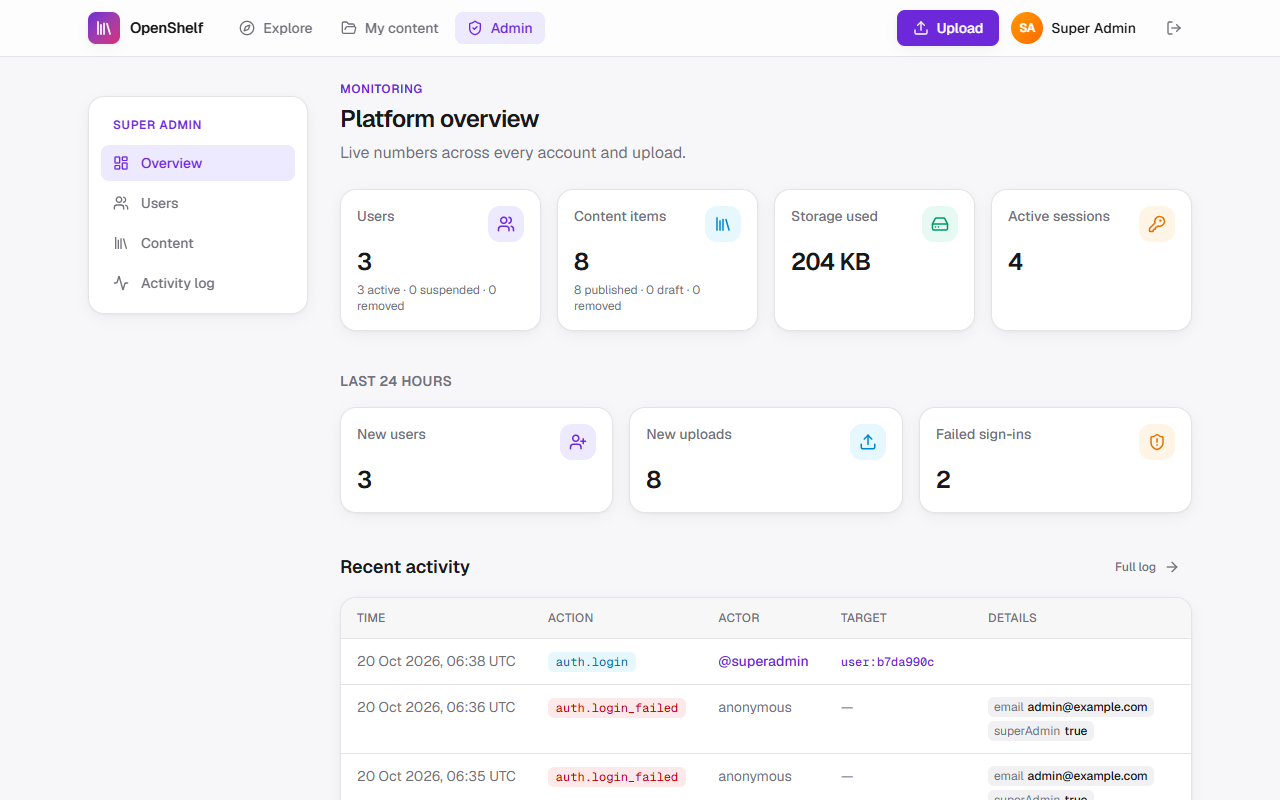
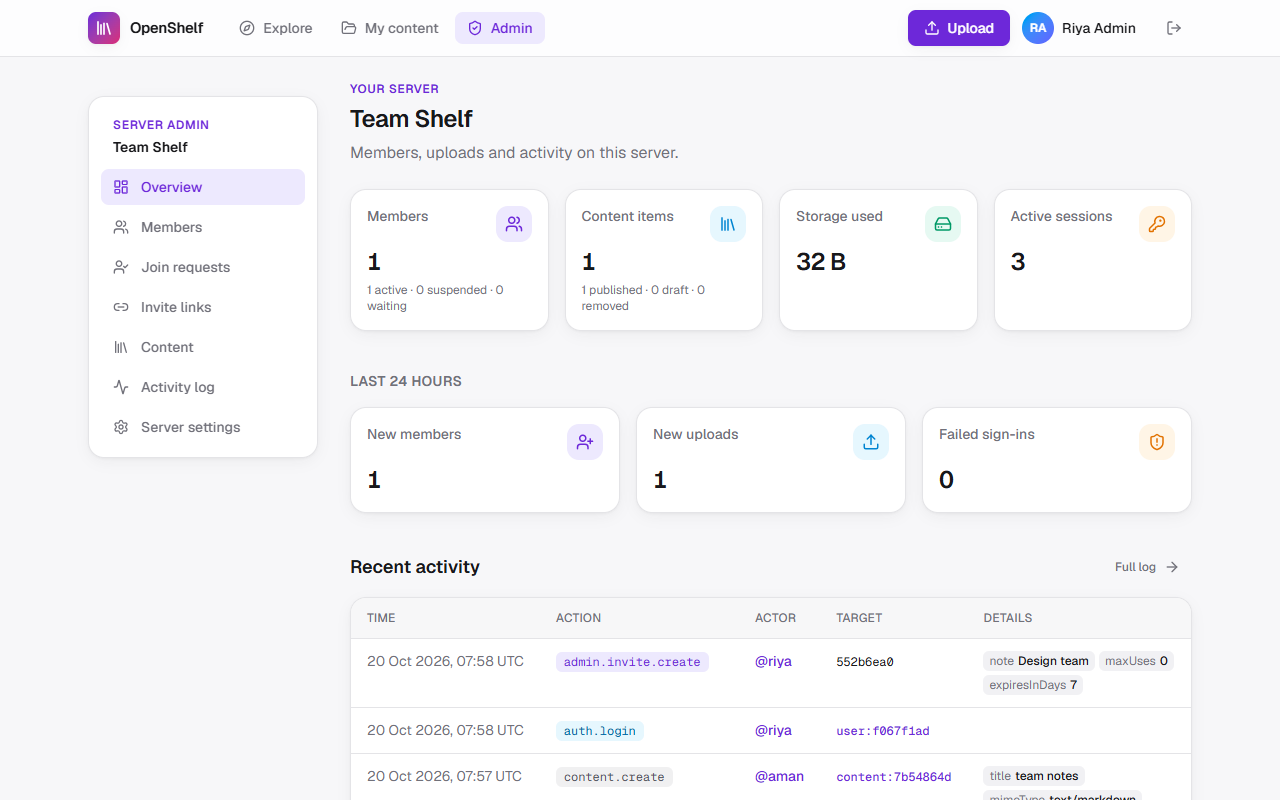
OpenShelf 0.2.0: team servers over Wi-Fi
- Wi-Fi address list prefers the Wi-Fi adapter
- README: team setup walkthrough with new screenshots; roles; reset-password FAQ
- docs: servers, invites, Wi-Fi sharing, 3-role RBAC table; SECURITY: LAN is plain http
- Release notes with the update-popup marker (big feature)

diff --git a/src/server/services/server.ts b/src/server/services/server.ts
@@ -88,16 +88,21 @@ export async function updateServerSettings(admin: CurrentUser, input: Record<str
 
 /** http://<lan-ip>:<port> addresses this PC can be reached at on the local network. */
 export function lanAddresses(port: string | number): string[] {
-  const out: string[] = [];
-  for (const list of Object.values(os.networkInterfaces())) {
+  // Virtual adapters (VMs, WSL, Docker) aren't reachable by other devices on the Wi-Fi.
+  const VIRTUAL = /virtualbox|vmware|vethernet|hyper-v|wsl|docker|loopback|bluetooth|tailscale|zerotier/i;
+  const rank = (name: string) => (/wi-?fi|wireless|wlan/i.test(name) ? 0 : /ethernet|^en|^eth/i.test(name) ? 1 : 2);
+  const found: { name: string; url: string }[] = [];
+  for (const [name, list] of Object.entries(os.networkInterfaces())) {
+    if (VIRTUAL.test(name)) continue;
     for (const a of list ?? []) {
       if (a.family !== "IPv4" || a.internal) continue;
       // Skip link-local (169.254.x.x): it means "no network", not a reachable address.
       if (a.address.startsWith("169.254.")) continue;
-      out.push(`http://${a.address}:${port}`);
+      found.push({ name, url: `http://${a.address}:${port}` });
     }
   }
-  return out;
+  // Wi-Fi first, then wired, then anything else.
+  return found.sort((x, y) => rank(x.name) - rank(y.name)).map((f) => f.url);
 }
 
 // ---------------------------------------------------------------- invites

diff --git a/README.md b/README.md
@@ -5,8 +5,8 @@
 <h1 align="center">OpenShelf</h1>
 
 <p align="center">
-  <b>Your own content library on your own PC.</b><br>
-  Upload photos, videos, music, PDFs and notes, and share them publicly, by link, or keep them private.
+  <b>Turn your PC into a content server for your team.</b><br>
+  Photos, videos, music, PDFs and notes, shared fast over your own Wi-Fi, with you in charge.
 </p>
 
 <p align="center">
@@ -20,6 +20,13 @@
   <img src="docs/screenshots/home.png" alt="OpenShelf home page" width="900">
 </p>
 
+## How it works
+
+- **One person installs OpenShelf.** Their PC becomes the server, and they become its **admin**.
+- **Teammates join with an invite link.** On the same Wi-Fi, files move directly between their devices and the
+  server, so it's fast and nothing goes through the internet.
+- **Everyone keeps their own shelf.** Members upload and share. The admin manages members, invites and content.
+
 ---
 
 ## Install in 1 minute (Windows)
@@ -32,20 +39,16 @@
 irm https://raw.githubusercontent.com/sidvashisth2005/OpenShelf/main/install.ps1 | iex
 ```
 
-**Step 3.** Answer three questions:
+Press <kbd>Enter</kbd> when it asks `Continue? [Y/n]`. It installs, tests itself, and **opens in your browser**.
 
-| It asks | You type |
-| --- | --- |
-| `Continue? [Y/n]` | <kbd>Enter</kbd> |
-| `Admin email:` | your email, for example `you@example.com` |
-| `Admin password:` | a password of at least 14 characters, typed twice. It stays hidden while you type, which is normal. |
-
-That's it. OpenShelf installs, tests itself, and **opens in your browser**. Next time, open it from the
-**OpenShelf** icon on your Desktop or in the Start Menu.
+**Step 3.** In the browser, **create your admin account**: pick a server name, your name, email and password.
+That's it, you're the admin.
 
 <p align="center">
-  <img src="docs/screenshots/installer.png" alt="The installer running in PowerShell" width="800">
+  <img src="docs/screenshots/installer.png" alt="The installer running in PowerShell" width="760">
 </p>
+
+Next time, open OpenShelf from the **OpenShelf** icon on your Desktop or in the Start Menu.
 
 > **Why PowerShell and not a download button?** The command downloads the official installer from this
 > repository, checks that it hasn't been changed (SHA-256), and runs it. You skip the browser's "isn't
@@ -58,9 +61,8 @@ That's it. OpenShelf installs, tests itself, and **opens in your browser**. Next
 2. If your browser says *"OpenShelf.exe isn't commonly downloaded"*: open the downloads list, choose **…** →
    **Keep** → **Show more** → **Keep anyway**.
 3. Double-click it. If Windows shows *"Windows protected your PC"*, click **More info** → **Run anyway**.
-4. Answer the same three questions as above.
 
-These warnings appear because the installer isn't code-signed yet. They go away once releases are signed. See
+These warnings appear because the installer isn't code-signed yet. See
 [RELEASING.md](RELEASING.md#code-signing-removes-the-smartscreen-warning).
 </details>
 
@@ -73,27 +75,36 @@ You need [Node.js 20.9 or newer](https://nodejs.org).
 git clone https://github.com/sidvashisth2005/OpenShelf.git
 cd OpenShelf
 ./setup.sh          # Windows: setup.cmd
-npm start           # then open http://localhost:3000
+npm start           # then open http://localhost:3000 and create your admin account
 ```
 
-The setup script installs everything, asks for the admin email and password, runs the tests, and builds the app.
-For details, see the [developer guide](docs/DEVELOPMENT.md).
+See the [developer guide](docs/DEVELOPMENT.md).
 </details>
 
-**What you need:** Windows 10 or 11, an internet connection during install (about 60 MB), and about 300 MB of
-disk space. You don't need admin rights.
+**What you need:** Windows 10 or 11, internet during install (about 60 MB), and about 300 MB of disk space. You don't
+need admin rights.
 
 ---
 
-## What you can do
+## Bring your team in (same Wi-Fi)
 
 | | |
 | --- | --- |
-| <img src="docs/screenshots/upload.png" alt="Upload page" width="420"> | **Upload anything.** Drag and drop images, videos, music, PDFs and notes (up to 50 MB each). Give each upload a title and choose who can see it: **Public**, **Unlisted** (only people with the link) or **Private**. |
-| <img src="docs/screenshots/dashboard.png" alt="My content dashboard" width="420"> | **Manage your shelf.** See everything you've uploaded, what's public, and how much space it uses. Edit details or delete items at any time. |
-| <img src="docs/screenshots/content.png" alt="A content page" width="420"> | **Share a page for every item.** Images, video, audio and text preview right in the page, with Open and Download buttons. |
-| <img src="docs/screenshots/admin-overview.png" alt="Admin dashboard" width="420"> | **Run it as the admin.** A dashboard with users, uploads, storage and sign-in activity, plus tools to moderate content and suspend or remove accounts. Every admin action is logged. |
-| <img src="docs/screenshots/signup.png" alt="Sign-up page with the administrator access notice" width="420"> | **Be clear with your users.** At sign-up, people see exactly what the admin can access and agree to it once. This is explained in the built-in [Terms](src/lib/legal.ts) and Privacy Policy. |
+| <img src="docs/screenshots/setup.png" alt="Set up your server" width="420"> | **1. Set up your server.** The first time OpenShelf opens, you create the admin account. This page only opens on the PC where OpenShelf is installed, so nobody else can claim your server. |
+| <img src="docs/screenshots/server-settings.png" alt="Server settings" width="420"> | **2. Turn on "Share on my Wi-Fi".** In **Admin → Server settings**. OpenShelf restarts itself in the background. If Windows asks whether to allow it on private networks, choose **Allow**. You also choose who can join: **Invite only**, **Ask to join** (you approve each person) or **Open**. |
+| <img src="docs/screenshots/invites.png" alt="Invite links" width="420"> | **3. Create an invite link.** In **Admin → Invite links**: choose how many people can use it and when it expires, then copy the **same Wi-Fi** link and send it to your team. |
+| <img src="docs/screenshots/signup.png" alt="Joining with an invite" width="420"> | **4. Teammates open the link** on any phone or laptop on the same Wi-Fi, create their account, and they're in. At sign-up they see, and agree once to, what the admin can access. |
+| <img src="docs/screenshots/admin-overview.png" alt="Admin dashboard" width="420"> | **5. Manage everything** from the admin dashboard: members, join requests, invite links, content moderation and the activity log. |
+
+---
+
+## What members can do
+
+| | |
+| --- | --- |
+| <img src="docs/screenshots/upload.png" alt="Upload page" width="420"> | **Upload anything.** Drag and drop images, videos, music, PDFs and notes (up to 50 MB each), and choose who can see each one: **Public**, **Unlisted** (link only) or **Private**. |
+| <img src="docs/screenshots/dashboard.png" alt="My content dashboard" width="420"> | **Manage their shelf.** See everything they uploaded, edit details, or delete items at any time. |
+| <img src="docs/screenshots/content.png" alt="A content page" width="420"> | **Share a page for every item,** with previews and Open/Download buttons. |
 
 <p align="center">
   <img src="docs/screenshots/home-dark.png" alt="Dark mode" width="560">
@@ -102,28 +113,24 @@ disk space. You don't need admin rights.
   <br><sub>Dark mode follows your system setting, and it works on phones too.</sub>
 </p>
 
----
+## Roles
 
-## Using OpenShelf
+| Role | Who | Can do |
+| --- | --- | --- |
+| **Member** | People who join a server | Upload, share and manage their own content |
+| **Admin** | Whoever installed OpenShelf on their PC | Everything on their server: members, invites, join requests, settings, moderation, activity log. Members consent to this access once, at sign-up. |
+| **Super Admin** | The OpenShelf platform owner | Everything an admin can do, on every server. Disclosed in the [Terms](src/lib/legal.ts). |
 
-- **Open:** use the **OpenShelf** icon on the Desktop or in the Start Menu. It starts in the background and opens
-  `http://localhost:4310` in your browser.
-- **Sign in as admin:** use the email and password you chose during install. You land on the admin dashboard.
-- **Let others join:** they open your OpenShelf, click **Get started**, and create their own account.
-- **Stop:** Start Menu → **OpenShelf** → **Stop OpenShelf**.
+> **Coming next:** admins whose PC is online will link to the **Super Admin panel over the internet**, and members
+> on other networks will be able to join over the internet too. Teams on the same Wi-Fi keep transferring locally
+> at full speed.
+
+## Updating and uninstalling
+
+- **Updates:** for big new versions, OpenShelf shows a popup the next time you open it. Click **Yes**; your data
+  is kept. To update manually, run the install command again.
+- **Uninstall:** **Settings → Apps → Installed apps → OpenShelf → Uninstall.** It asks whether to keep your data.
 - **Your data** (database, uploads, settings) lives in `%LOCALAPPDATA%\OpenShelf\data`.
-
-> OpenShelf currently listens on `127.0.0.1` only, so it can be opened from **this PC**. Sharing your
-> server with other devices is the next big feature on the roadmap.
-
-## Updating
-
-When a big new version comes out, OpenShelf shows a popup the next time you open it. Click **Yes** to update;
-your data is kept. Small fixes never interrupt you. To update manually, run the install command again.
-
-## Uninstalling
-
-**Settings → Apps → Installed apps → OpenShelf → Uninstall.** It asks whether to keep your data.
 
 ## FAQ
 
@@ -132,28 +139,29 @@ your data is kept. Small fixes never interrupt you. To update manually, run the 
 
 The command only downloads [`install.ps1`](install.ps1) from this repository, so you can read exactly what it
 does. It downloads `OpenShelf.exe` from this repository's releases, verifies its SHA-256 checksum, and refuses to
-run it if the checksum doesn't match. The installer verifies Node.js and the app bundle the same way.
+run it if the checksum doesn't match. The installer verifies Node.js and the app the same way.
 </details>
 
 <details>
-<summary>I forgot my admin password.</summary>
+<summary>Teammates can't open the Wi-Fi link.</summary>
 
-Run the install command again. It keeps your data. To set a new admin password, open PowerShell in
-`%LOCALAPPDATA%\OpenShelf\app` and run:
+- Make sure **Share on my Wi-Fi** is on (Admin → Server settings) and that you are all on the same network.
+- If Windows asked whether to allow OpenShelf (Node.js) on the network, it needs **Allow** for *private*
+  networks. Your Wi-Fi must be set to *Private* in Windows network settings.
+- Some public, hotel or office networks block devices from reaching each other. Use a home or team network.
+</details>
+
+<details>
+<summary>I forgot my password.</summary>
+
+Open PowerShell and run:
 
 ```powershell
-..\runtime\node.exe openshelf.mjs configure --email you@example.com
+cd $env:LOCALAPPDATA\OpenShelf\app
+..\runtime\node.exe openshelf.mjs reset-password --email you@example.com
 ```
 
-Type the new password, press <kbd>Enter</kbd>, then <kbd>Ctrl</kbd>+<kbd>Z</kbd> and <kbd>Enter</kbd>. Restart
-OpenShelf afterwards (Stop OpenShelf, then open it again).
-</details>
-
-<details>
-<summary>Port 4310 is already used on my PC.</summary>
-
-The installer picks a free port automatically if 4310 is taken. The Desktop shortcut always opens the right
-address.
+Type the new password twice (it stays hidden), then open OpenShelf again from the Desktop icon.
 </details>
 
 ---

diff --git a/docs/DEVELOPMENT.md b/docs/DEVELOPMENT.md
@@ -19,15 +19,28 @@ This guide covers the stack, configuration, architecture and tooling. To just in
 ```bash
 npm install
 cp .env.example .env.local
-npm run admin:hash          # prompts for the super admin password, prints SUPER_ADMIN_PASSWORD_HASH_B64=...
-# put SUPER_ADMIN_EMAIL and the printed SUPER_ADMIN_PASSWORD_HASH_B64 into .env.local
 npm run dev
 ```
 
-Open http://localhost:3000. The local database and uploads live in `./.data/` (git-ignored). Migrations are
-applied to it automatically.
+Open http://localhost:3000. A fresh database sends you to **`/setup`**, where you create the server's **admin**
+(owner) account and name the server. `/setup` only works once, and only from `localhost`. The local database and
+uploads live in `./.data/` (git-ignored). Migrations are applied automatically.
 
-Sign in at `/login` with `SUPER_ADMIN_EMAIL` and the password you hashed. The super admin lands on `/admin`.
+Optionally, configure the platform **super admin** too: run `npm run admin:hash`, then put `SUPER_ADMIN_EMAIL`
+and the printed `SUPER_ADMIN_PASSWORD_HASH_B64` into `.env.local`.
+
+## Servers, invites and Wi-Fi sharing
+
+- Each install is one **server** (`server_settings`, a single row created by `/setup`) with a **join mode**:
+  `invite` (the default; an invite link is required), `approval` (sign-ups become `pending` until the admin
+  approves them at `/admin/requests`) or `open`.
+- **Invite links** (`/join/<token>`) store only a SHA-256 of the token. They can expire and have a use limit. A
+  seat is used inside the sign-up transaction, so a single-use link can't be shared.
+- **Share on my Wi-Fi** writes `data/network.json`. The installed app's supervisor (`openshelf.mjs start`) watches
+  that file and restarts the server bound to `0.0.0.0` (or back to `127.0.0.1`). Invite pages list Wi-Fi
+  addresses first.
+- Over plain `http` (localhost or a LAN address), the session cookie is an ordinary `HttpOnly` cookie. Over HTTPS,
+  it's a `__Host-` `Secure` cookie.
 
 ## Super admin
 
@@ -48,12 +61,16 @@ Sign in at `/login` with `SUPER_ADMIN_EMAIL` and the password you hashed. The su
 
 Defined in [src/lib/rbac.ts](../src/lib/rbac.ts). Code checks **permissions**, never role names:
 
-| Permission | user | super_admin |
-| ---------- | :--: | :---------: |
-| `content:create`, `content:update:own`, `content:delete:own` | ✓ | ✓ |
-| `content:read:any`, `content:moderate:any`, `content:delete:any` | | ✓ |
-| `user:read:any`, `user:suspend`, `user:remove` | | ✓ |
-| `audit:read`, `admin:dashboard` | | ✓ |
+| Permission | user (member) | admin (server owner) | super_admin |
+| ---------- | :--: | :--: | :---------: |
+| `content:create`, `content:update:own`, `content:delete:own` | ✓ | ✓ | ✓ |
+| `content:read:any`, `content:moderate:any`, `content:delete:any` | | ✓ | ✓ |
+| `user:read:any`, `user:suspend`, `user:remove`, `user:approve` | | ✓ | ✓ |
+| `audit:read`, `admin:dashboard` | | ✓ | ✓ |
+| `server:manage`, `invite:manage` | | ✓ | ✓ |
+
+Ranks are `user` < `admin` < `super_admin`. Account actions require outranking the target (`outranks`), so the
+admin can manage members but can never suspend or remove the super admin, or themselves.
 
 There is deliberately no `content:update:any`. Moderators remove or restore content, but they never edit
 someone else's words.

diff --git a/SECURITY.md b/SECURITY.md
@@ -19,7 +19,7 @@ How OpenShelf handles common web-app risks, and where each control lives.
 | 5 | Input sanitising / XSS | ✅ | zod validation on every input. React escapes all output, and the code never uses `dangerouslySetInnerHTML`. Uploaded files are served with `nosniff` and a sandbox CSP. SVG and HTML uploads are refused. |
 | 6 | Parameterized queries | ✅ | Drizzle ORM. `sql` template values are bound parameters, never `sql.raw`. LIKE wildcards are escaped (`escapeLike`). |
 | 7 | CORS locked down | ✅ | No CORS headers are sent, so browsers block cross-origin reads. Server Actions verify `Origin` (built into Next.js). The upload API rejects any request whose `Origin` isn't this site. Cookies are `SameSite=Lax`. |
-| 8 | HTTPS | ✅ (deployments) | Set `FORCE_HTTPS=true` behind a TLS proxy: HTTP requests get a 308 redirect, and the app sends HSTS and `upgrade-insecure-requests`. Production cookies are `__Host-` + `Secure`. The local installer listens on `127.0.0.1` only. |
+| 8 | HTTPS | ✅ (deployments) | Set `FORCE_HTTPS=true` behind a TLS proxy: HTTP requests get a 308 redirect, and the app sends HSTS and `upgrade-insecure-requests`. HTTPS sessions use a `__Host-` + `Secure` cookie. The installed app listens on `127.0.0.1` only, unless the admin turns on **Share on my Wi-Fi**. Then it is reachable on the local network over plain `http`, so traffic between devices on that Wi-Fi is **not encrypted**. Use it on trusted home or team networks, not public Wi-Fi. |
 | 9 | IDOR | ✅ | Content IDs are random UUIDs, and every lookup re-checks owner/visibility. Changing an ID in the URL returns 404 (end-to-end tested). |
 | 10 | No debug output in production | ✅ | Production builds hide stack traces. API errors are generic. `X-Powered-By` is removed. |
 | 11 | CAPTCHA / bot protection | ✅ | Sign-up has a honeypot field and an HMAC-signed minimum-fill-time token (both work offline), plus **Cloudflare Turnstile** when `TURNSTILE_SITE_KEY` + `TURNSTILE_SECRET_KEY` are set. There is no contact form. |

diff --git a/RELEASE_NOTES.md b/RELEASE_NOTES.md
@@ -1,7 +1,8 @@
-## OpenShelf 0.1.1
+<!-- notify-users -->
+## OpenShelf 0.2.0: bring your team in
 
-- New OpenShelf logo: app icon, browser tab, installer, shortcuts and Apps & features
-- One-line PowerShell install with checksum verification (no SmartScreen prompt):
-  `irm https://raw.githubusercontent.com/sidvashisth2005/OpenShelf/main/install.ps1 | iex`
-- The installer exe now shows OpenShelf name, version and publisher details
-- Release pipeline ready for code signing
+- Your PC is now a server for your team: whoever installs OpenShelf becomes its admin
+- Share on your Wi-Fi: teammates on the same network join with an invite link, and files move at local speed
+- Invite links with expiry and use limits, "Ask to join" approvals, and Open / Invite-only modes
+- New admin dashboard: members, join requests, invite links, server settings
+- The installer no longer asks for credentials: you create your account in the browser
